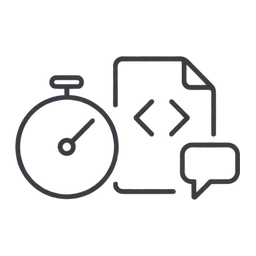
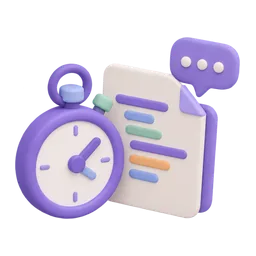
Redesign the Insights header, 3D isometric stat illustrations
- Header: a summary that follows the data (defects, code reviews, teams,
  models) instead of usage instructions, with 'Data through Sep 15, 2017'
  and the sync status on the right.
- Stat tiles: colored 3D isometric illustrations replace the line art.

Claude-Session: https://claude.ai/code/session_01VkA9o9QWCnyfjaz6EKiizu

diff --git a/components/views/insights-view.tsx b/components/views/insights-view.tsx
@@ -2,6 +2,7 @@
 
 import { useRouter } from 'next/navigation';
 import { useMemo } from 'react';
+import { MODELS, TEAMS } from '@/lib/constants';
 import { fFull, TODAY } from '@/lib/dates';
 import { computeInsights, RANGES } from '@/lib/insights';
 import { systemGraph } from '@/lib/relations';
@@ -39,7 +40,22 @@ export function InsightsView() {
 
   return (
     <div className="mx-auto flex max-w-[1200px] flex-col gap-10">
-      <PageHeader title="Insights" sub={`Defect flow and code review performance through ${fFull(TODAY + ' 00:00')}. Select any bar or row to open the matching items.`} />
+      <PageHeader
+        title="Insights"
+        sub={`${app.data.defects.length} defects and ${app.data.reviews.length} code reviews from ${TEAMS.length} teams across ${MODELS.length} printer and copier models.`}
+        action={
+          <div className="flex flex-wrap items-center gap-x-6 gap-y-2 pb-1 text-sm text-ink-5">
+            <span className="flex items-center gap-2">
+              <Icon name="calendar-clock" size={16} color="var(--color-accent-ink)" />
+              Data through {fFull(TODAY + ' 00:00')}
+            </span>
+            <span className="flex items-center gap-2">
+              <span className="h-1.5 w-1.5 rounded-full bg-[oklch(0.62_0.14_155)]" />
+              All systems in sync
+            </span>
+          </div>
+        }
+      />
 
       <section className="flex flex-col gap-3">
         <div
